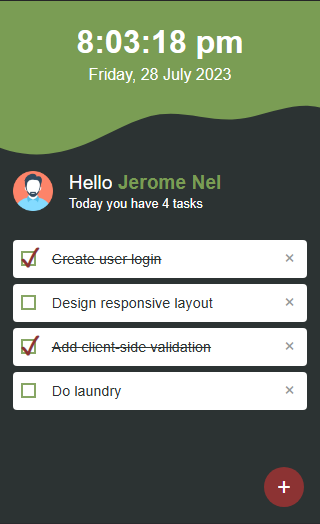
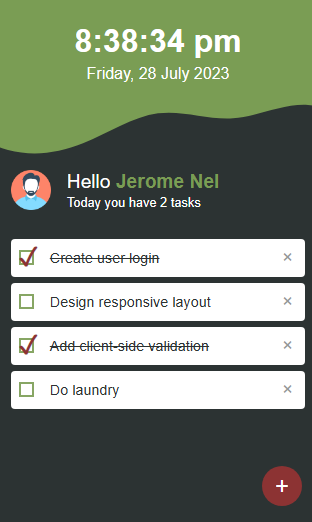
fix task count when finishing a task

diff --git a/script.js b/script.js
@@ -71,6 +71,14 @@ document.querySelector('#tasks-list').addEventListener('click', function (event)
 
 		checkboxElement.classList.toggle('checked');
 		taskTextElement.classList.toggle('checked');
+
+		let checkedTask = 0;
+		document.querySelectorAll('.checkbox').forEach(function (task) {
+			if (task.classList.contains('checked')) {
+				checkedTask++;
+			}
+		});
+		taskCount.textContent = tasks.length - checkedTask;
 	}
 });
 
